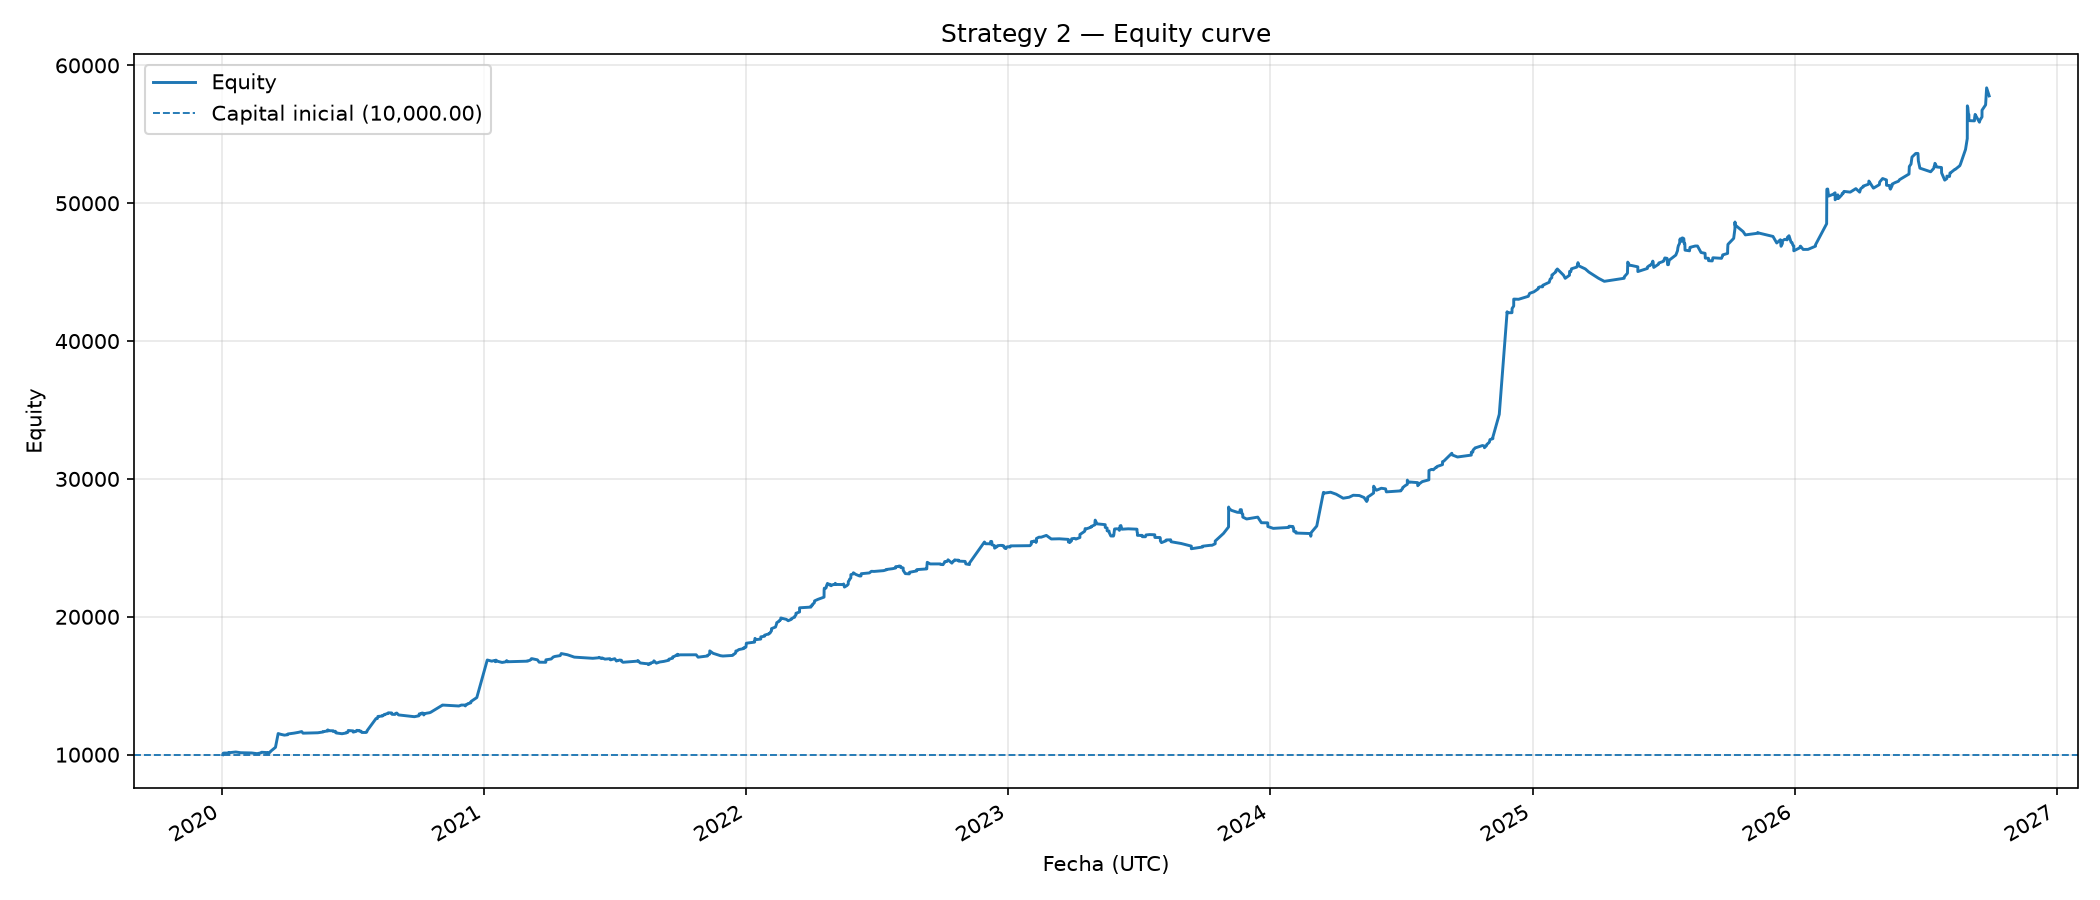
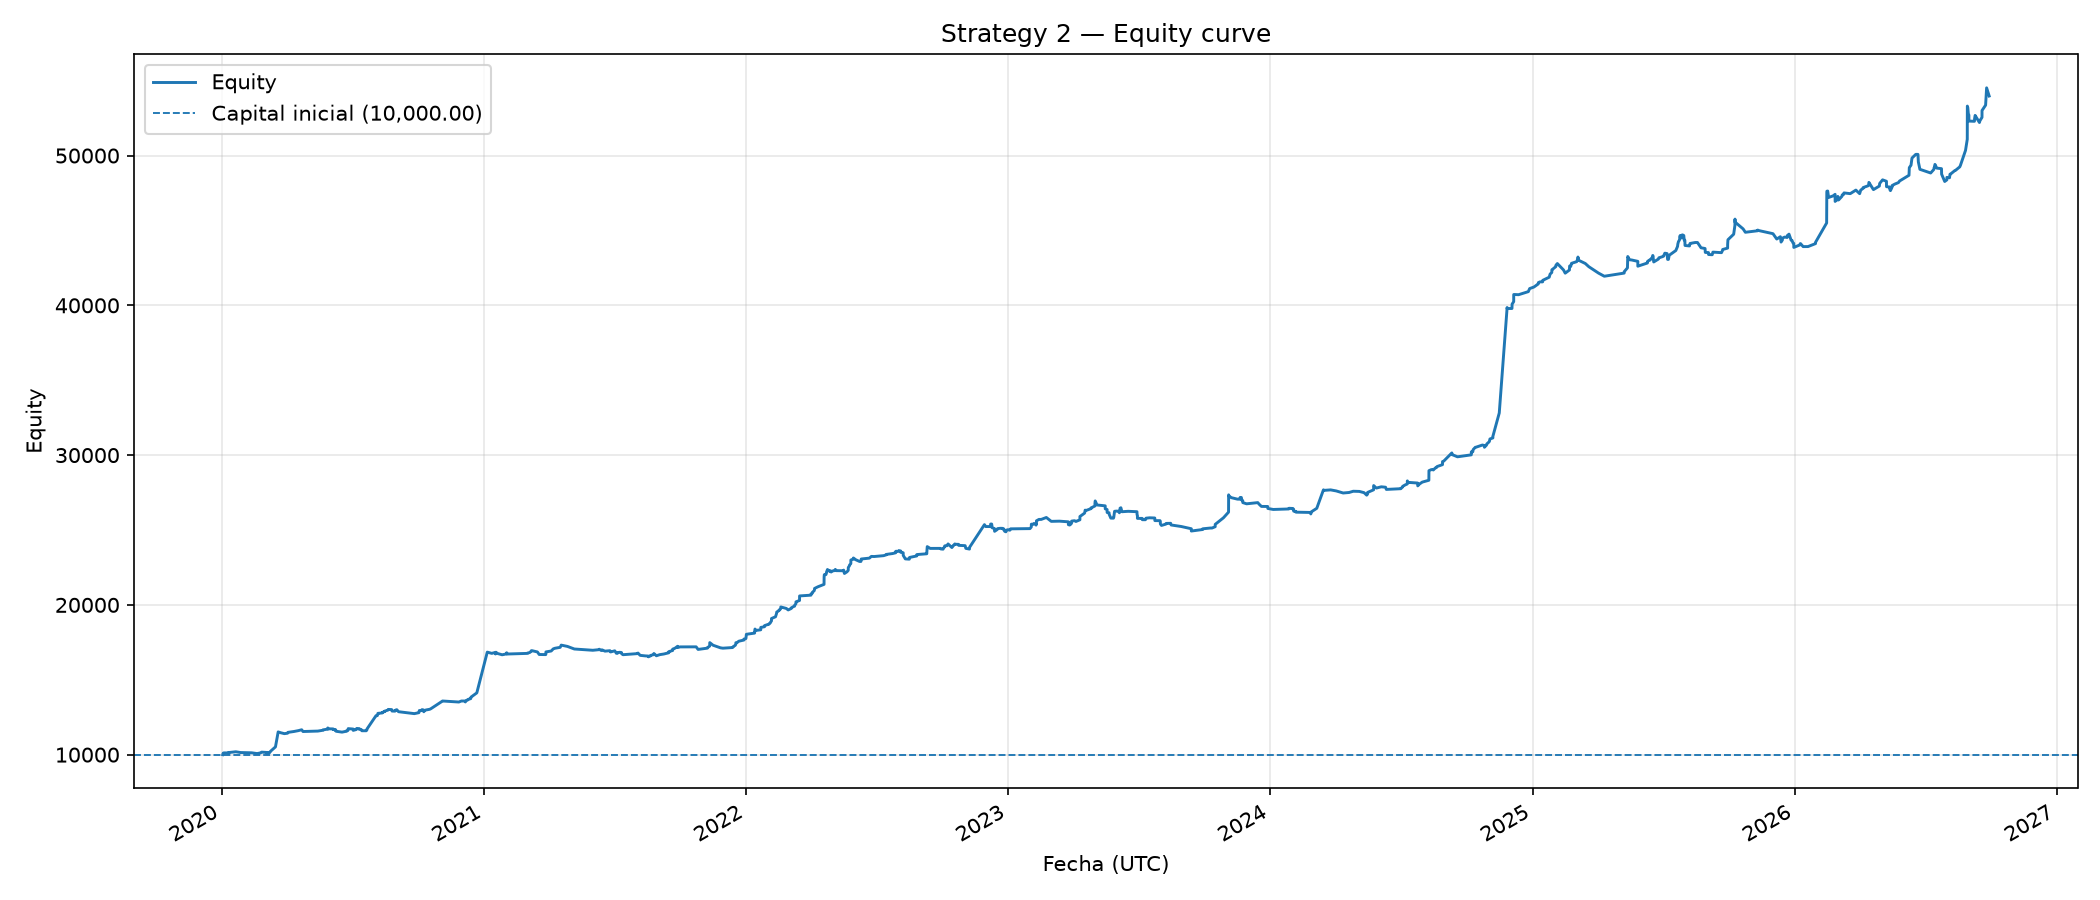
update

diff --git a/backend/services/backtest/bin/legacy/strategy/strategy.py b/backend/services/backtest/bin/legacy/strategy/strategy.py
@@ -22,16 +22,26 @@ el pivote anterior del mismo tipo en `rsi_divergence_lookback` velas.
 
 Archivo único con API reutilizable para backtesting y bots.
 
-Protecciones de riesgo (ver `Config`; las de régimen y tamaño adaptativo
-arrancan desactivadas, la de racha y la mensual vienen activas):
+Protecciones de riesgo (ver `Config`; el filtro de régimen y el escalado de
+riesgo por mes arrancan desactivados, la de racha, la mensual y el tamaño
+adaptativo vienen activos):
 
 * `streak_trend_only` (default True): tras una posición cerrada en pérdida,
   la siguiente entrada sólo se abre si la señal coincide con el sesgo de
   tendencia de `trend_timeframe` (vela superior ya cerrada, sin lookahead).
   Corta las rachas de -1R del whipsaw sin recortar los cruces en tendencia.
-* `monthly_loss_limit_pct` (default 4.5): si la equity cae más de X% por
+* `monthly_loss_limit_pct` (default 5.0): si la equity cae más de X% por
   debajo de la equity al inicio del mes calendario se cierra la posición (opcional)
   y no se abren nuevas hasta el siguiente mes (o `monthly_loss_limit_days` días).
+* `monthly_trend_gate_pct` (default 0 = off) + `monthly_gate_mode` ("trend" |
+  "all"): con el mes acumulando ≥ X% de pérdida, las nuevas entradas sólo se
+  abren a favor del sesgo de tendencia (o se bloquean todas, en modo "all").
+  Sobre el drawdown del mes, no sobre la racha de posiciones: en meses en
+  verde no toca nada, así que no recorta los cruces ganadores.
+* `monthly_risk_scaling` (default off) + `monthly_risk_scaling_min` (0.35):
+  el tamaño de cada nueva posición baja en proporción al drawdown del mes
+  (dd 0 → 1, dd `monthly_loss_limit_pct` → mínimo), para que las entradas de
+  la segunda mitad de un mes rojo no profundicen el mes.
 * `consecutive_loss_pause` (default 0) + `consecutive_loss_pause_bars` (96):
   espera de 48h (en 30min) antes de volver a entrar tras cada posición cerrada
   en pérdida. Con `streak_trend_only` activo no baja la racha y cuesta
@@ -39,13 +49,25 @@ arrancan desactivadas, la de racha y la mensual vienen activas):
 * `trend_filter` ("off" | "cross" | "slow") y `chop_filter`: filtro de régimen
   permanente; sólo se opera en la dirección de la tendencia de `trend_timeframe`
   / con el ADX de `chop_timeframe` por encima del mínimo.
-* `adaptive_risk_window`: escala `risk_pct` con el win rate de las últimas n
-  posiciones (penaliza rachas frías y reutiliza en cálidas).
+* `adaptive_risk_window` (default 20) + `adaptive_risk_k`: escala `risk_pct`
+  con el win rate de las últimas n posiciones: penaliza las rachas frías
+  (donde se concentran los meses rojos) y reutiliza el tamaño en las cálidas.
 
-Sobre BTCUSDT 2020-2026 (30min), con los defaults, frente a no tener
-protección alguna: racha máxima de pérdidas 7 -> 5 (lo mismo en train y en
-test), peor mes -4,75% -> -2,65%, PF 1,76 -> 2,07, expectancy 0,29R -> 0,40R,
-max drawdown -10,95% -> -10,68% y rendimiento total 327,6% -> 362,5%.
+Reducción de meses rojos (BTCUSDT 2020-2026, 30min, 82 meses). Partiendo del
+uso previo (`streak_trend_only`, `monthly_loss_limit_pct=5`, `adaptive_risk_window=0`):
+
+| variante                                   | meses en rojo | peor mes | suma meses rojos | retorno | max DD | PF   |
+|--------------------------------------------|---------------|----------|------------------|---------|--------|------|
+| sin tamaño adaptativo                      | 25 (30,5 %)   | -3,15 %  | -28,6 %          | 477,9 % | -8,70% | 2,43 |
+| `adaptive_risk_window=20` (**default**)    | 25 (30,5 %)   | -2,49 %  | -26,1 %          | 439,8 % | -7,96% | 2,49 |
+| `+ monthly_trend_gate_pct=0.3`             | 25 (30,5 %)   | -2,17 %  | -25,5 %          | 495,6 % | -8,23% | 2,52 |
+| `+ monthly_trend_gate_pct=0.4`             | 25 (30,5 %)   | -2,45 %  | -24,0 %          | 447,2 % | -7,46% | 2,58 |
+
+El mismo recorte se repite en train (2020-2023) y test (2024-2026) y con costes
+realistas (comisión 4 bps + slippage 2 bps), donde el tamaño adaptativo también
+mejora el drawdown (-10,1 % -> -8,2 %). El `monthly_trend_gate_pct` es más
+dependiente del régimen: se probó con costes y con `trend_filter="cross"`, donde
+no aporta, por eso arranca desactivado.
 
 Uso:
     python strategy2_refactored.py data.parquet --output-dir backtest_out
@@ -249,6 +271,12 @@ class Backtester:
         self.streak_in_loss = False
         self._position_pnl = 0.0
         self._recent_wins: list[bool] = []
+        # Estado mensual compartido por `run`, el gate de entradas y el
+        # escalado de riesgo: equity de referencia del mes y del cierre
+        # anterior (sin lookahead: se usa en la apertura de la vela siguiente).
+        self.month_start_equity = config.initial_capital
+        self._prev_close_equity = config.initial_capital
+        self.month_dd_pct = 0.0
 
     def _price(self, price: float, side: int) -> float:
         slip = self.cfg.slippage_bps / 10_000
@@ -272,7 +300,7 @@ class Backtester:
             return
         pct_sl = self.cfg.stop_loss_pct
         risk_unit = self._risk_per_unit(side, price, pct_sl) if pct_sl > 0 else 0.0
-        by_risk = self.cash * self.cfg.risk_pct * self._risk_multiplier() / risk_unit if risk_unit > 0 else np.inf
+        by_risk = self.cash * self.cfg.risk_pct * self._risk_multiplier() * self._monthly_risk_scale() / risk_unit if risk_unit > 0 else np.inf
         by_lev = self.cash * self.cfg.max_leverage / price
         qty_total = min(by_risk, by_lev)
         if not np.isfinite(qty_total) or qty_total <= 0:
@@ -368,6 +396,29 @@ class Backtester:
         win_rate = sum(wins) / len(wins)
         factor = 1 + cfg.adaptive_risk_k * (win_rate - 0.5)
         return float(min(max(factor, cfg.adaptive_risk_min), cfg.adaptive_risk_max))
+
+    def _monthly_risk_scale(self) -> float:
+        """Escala de tamaño según el drawdown acumulado del mes calendario.
+
+        Con ``monthly_risk_scaling`` desactivado devuelve 1. Si no, devuelve
+        ``1 - clamp(dd/budget, 0, 1) * (1 - monthly_risk_scaling_min)``: al
+        abrir el mes (dd = 0) se arriesga el tamaño habitual y conforme la
+        equity se acerca al límite ``monthly_loss_limit_pct`` el tamaño baja
+        hasta ``monthly_risk_scaling_min``. Corta las pérdidas que profundizan
+        un mes ya en rojo sin cerrar posiciones ni bloquear entradas.
+
+        Usa la equity del **cierre de la vela anterior** (``_prev_close_equity``),
+        la última conocida al ejecutar la apertura de la vela actual, así que
+        no hay lookahead.
+        """
+        cfg = self.cfg
+        if not cfg.monthly_risk_scaling or self.month_start_equity <= 0:
+            return 1.0
+        budget = cfg.monthly_loss_limit_pct / 100 if cfg.monthly_loss_limit_pct > 0 else 0.02
+        dd = max(0.0, 1.0 - self._prev_close_equity / self.month_start_equity)
+        used = min(dd / budget, 1.0)
+        floor = min(max(cfg.monthly_risk_scaling_min, 0.0), 1.0)
+        return float(1.0 - used * (1.0 - floor))
 
     def _close_streak(self) -> None:
         """Actualiza la racha de pérdidas y arma la pausa de entrada si procede.
@@ -701,6 +752,7 @@ class Backtester:
                 month_key = key
                 self.halt_until = None
                 month_start_equity = self._equity_value(self.c[i - 1]) if i else cfg.initial_capital
+                self.month_start_equity = month_start_equity
             # 1) Ejecutar add pendiente (decidido al cierre de vela anterior)
             if self.pending_add is not None:
                 exec_i, pct_rem = self.pending_add
@@ -732,11 +784,19 @@ class Backtester:
                     # Ejecutar resto completo en apertura de i+1
                     self.pending_add = (i + 1, 100.0)
 
+            # Equity mark-to-market del cierre de la vela y pérdida acumulada
+            # del mes: base del guard duro, del gate de entradas y de la
+            # referencia de riesgo del mes siguiente.
+            equity_now = self._equity_value(self.c[i])
+            if month_start_equity > 0:
+                self.month_dd_pct = max(0.0, (1.0 - equity_now / month_start_equity) * 100.0)
+            self._prev_close_equity = equity_now
+
             # Límite de pérdida mensual: si la equity cae por debajo del umbral
             # respecto al inicio del mes, se protege el mes completo (se cierra
             # la posición, si la hay, y no se abren nuevas hasta el próximo mes).
             if cfg.monthly_loss_limit_pct > 0 and self.halt_until is None:
-                if self._equity_value(self.c[i]) <= month_start_equity * (1 - cfg.monthly_loss_limit_pct / 100):
+                if equity_now <= month_start_equity * (1 - cfg.monthly_loss_limit_pct / 100):
                     if cfg.monthly_loss_limit_days > 0:
                         self.halt_until = self.times[i] + pd.Timedelta(days=cfg.monthly_loss_limit_days)
                         scope = f"{cfg.monthly_loss_limit_days} días"
@@ -756,6 +816,14 @@ class Backtester:
                 if target == -1 and not cfg.allow_short: target = 0
                 current = self.position.side if self.position else 0
                 if target and target != current and not self.entries_blocked():
+                    bias_val = int(self.signals["trend_bias"].iloc[i])
+                    # Gate mensual: con el mes en pérdida ≥ umbral se frenan las
+                    # entradas (todas o sólo las contra tendencia) para que un
+                    # mes rojo no se profundice con nuevas trampas de whipsaw.
+                    month_red = (cfg.monthly_trend_gate_pct > 0
+                                 and self.month_dd_pct >= cfg.monthly_trend_gate_pct)
+                    blocked_month = month_red and (cfg.monthly_gate_mode == "all"
+                                                   or bias_val != target)
                     if self.skip_signals_left > 0:
                         # Tras una pérdida se ignoran las primeras señales: en
                         # whipsaw la siguiente señal suele ser otra trampa.
@@ -763,8 +831,12 @@ class Backtester:
                         if self.verbose:
                             print(f"[SKIP] {self.times[i]} señal ignorada "
                                   f"({self.skip_signals_left} restantes)", flush=True)
-                    elif (cfg.streak_trend_only and self.streak_in_loss
-                          and int(self.signals["trend_bias"].iloc[i]) != target):
+                    elif blocked_month:
+                        if self.verbose:
+                            print(f"[GATE] {self.times[i]} mes {self.month_dd_pct:.2f}% en rojo: "
+                                  f"señal {target:+d} bloqueada (modo {cfg.monthly_gate_mode})",
+                                  flush=True)
+                    elif cfg.streak_trend_only and self.streak_in_loss and bias_val != target:
                         # Tras una pérdida sólo se entra con la tendencia mayor.
                         if self.verbose:
                             print(f"[RACHA] {self.times[i]} señal {target:+d} "
@@ -892,6 +964,18 @@ def parse_args():
                    help="Cierra la posición abierta al alcanzar el límite mensual.")
     p.add_argument("--monthly-loss-limit-days", type=int, default=d.monthly_loss_limit_days,
                    help="Días sin entradas tras el límite mensual (0 = hasta el próximo mes).")
+    p.add_argument("--monthly-trend-gate-pct", type=float, default=d.monthly_trend_gate_pct,
+                   help="%% de pérdida mensual acumulada a partir de la cual las entradas sólo se abren "
+                        "a favor de la tendencia (0 = desactivado).")
+    p.add_argument("--monthly-gate-mode", choices=("trend", "all"), default=d.monthly_gate_mode,
+                   help="'trend' exige alineación con la tendencia; 'all' bloquea toda entrada "
+                        "mientras el mes está en rojo.")
+    p.add_argument("--monthly-risk-scaling", action=argparse.BooleanOptionalAction,
+                   default=d.monthly_risk_scaling,
+                   help="Escala el tamaño de las posiciones con el drawdown del mes, hasta "
+                        "--monthly-risk-scaling-min al llegar al límite mensual.")
+    p.add_argument("--monthly-risk-scaling-min", type=float, default=d.monthly_risk_scaling_min,
+                   help="Tamaño mínimo (fracción de risk_pct) al fondo del drawdown mensual (default 0.35).")
     p.add_argument("--consecutive-loss-pause", type=int, default=d.consecutive_loss_pause,
                    help="Pausa las entradas tras N posiciones consecutivas en pérdida (0 = desactivado).")
     p.add_argument("--consecutive-loss-pause-bars", type=int, default=d.consecutive_loss_pause_bars,
@@ -950,6 +1034,10 @@ def config_from_args(a) -> Config:
         monthly_loss_limit_pct=a.monthly_loss_limit_pct,
         monthly_loss_limit_close=a.monthly_loss_limit_close,
         monthly_loss_limit_days=a.monthly_loss_limit_days,
+        monthly_trend_gate_pct=a.monthly_trend_gate_pct,
+        monthly_gate_mode=a.monthly_gate_mode,
+        monthly_risk_scaling=a.monthly_risk_scaling,
+        monthly_risk_scaling_min=a.monthly_risk_scaling_min,
         consecutive_loss_pause=a.consecutive_loss_pause,
         consecutive_loss_pause_bars=a.consecutive_loss_pause_bars,
         consecutive_loss_skip_signals=a.consecutive_loss_skip_signals,

diff --git a/backend/services/backtest/bin/legacy/strategy/config.py b/backend/services/backtest/bin/legacy/strategy/config.py
@@ -133,19 +133,43 @@ class Config:
     # equity al inicio del mes calendario, se dejan de abrir posiciones (y, con
     # monthly_loss_limit_close, se cierra la abierta) hasta el siguiente mes
     # o, si `monthly_loss_limit_days` > 0, durante ese número de días.
-    # Red de seguridad para el peor mes; con `streak_trend_only` activo apenas
-    # llega a dispararse (el peor mes cae a ~-2,7%). 0 = desactivado.
+    # Red de seguridad para el peor mes. Con los defaults apenas llega a
+    # dispararse (1 vez en 82 meses), por eso arranca holgado en 5.0 y el
+    # trabajo de recortar meses rojos lo hacen `monthly_trend_gate_pct` y
+    # `adaptive_risk_window`; bajarlo (p. ej. 2) mejora el peor mes pero
+    # recorta el acumulado de meses negativos. 0 = desactivado.
     monthly_loss_limit_pct: float = 5.0
     monthly_loss_limit_close: bool = True
     monthly_loss_limit_days: int = 0
 
+    # --- Gate y escalado de riesgo por mes ---------------------------------
+    # Palancas para recortar los meses en rojo sin apagar la estrategia:
+    # actúan sobre el drawdown *acumulado del mes calendario* (equity mark-to-
+    # market respecto a la equity del cierre del mes anterior), no sobre la
+    # racha de posiciones.
+    #
+    # `monthly_trend_gate_pct`: cuando el mes acumula una pérdida ≥ X %, las
+    # nuevas entradas sólo se abren a favor del sesgo de tendencia de
+    # `trend_timeframe` (mismo requisito que `streak_trend_only`, pero activado
+    # por el mes en rojo). En los meses en verde no toca nada, así que no
+    # recorta los cruces ganadores. 0 = desactivado.
+    monthly_trend_gate_pct: float = 0.0
+    # `monthly_gate_mode`: "trend" exige sólo alineación con la tendencia y
+    # "all" bloquea cualquier entrada mientras el mes esté en rojo.
+    monthly_gate_mode: str = "trend"
+    # `monthly_risk_scaling`: escala `risk_pct` con el drawdown del mes:
+    # dd = 0 -> 1, dd >= `monthly_loss_limit_pct` -> `monthly_risk_scaling_min`
+    # (y ahí ya corta el guard duro). Reduce el tamaño de las posiciones que se
+    # abren en la segunda mitad de un mes rojo, donde salen las pérdidas que
+    # profundizan el mes. Con el límite mensual a 0 se usa un 2 % de referencia.
+    monthly_risk_scaling: bool = False
+    monthly_risk_scaling_min: float = 0.35
+
     # --- Pausa tras rachas de pérdidas -------------------------------------
     # Tras `consecutive_loss_pause` posiciones consecutivas en pérdida no se
     # abren nuevas durante `consecutive_loss_pause_bars` velas (96 velas de
-    # 30min = 48h). Evita re-entrar en pleno whipsaw. Con `streak_trend_only`
-    # activo la pausa no baja más la racha máxima (queda en 5) y cuesta entre
-    # 60 y 110 puntos de rendimiento, así que arranca desactivada (0); se
-    # conserva como palanca opcional para mercados muy violentos.
+    # 30min = 48h). Evita re-entrar en pleno whipsaw. Medido: no baja la racha
+    # máxima y cuesta rendimiento, así que arranca desactivada (0).
     consecutive_loss_pause: int = 0
     consecutive_loss_pause_bars: int = 96
 
@@ -170,8 +194,13 @@ class Config:
     # --- Tamaño de posición adaptativo -------------------------------------
     # `risk_pct` se multiplica por `clamp(1 + k * (win_rate últimas n posiciones
     # - 0.5), min, max)`: en rachas de pérdidas se arriesga menos y en rachas
-    # ganadoras (mercado en tendencia) se arriesga más. 0 = desactivado.
-    adaptive_risk_window: int = 0
+    # ganadoras (mercado en tendencia) se arriesga más. Los meses rojos suelen
+    # ser rachas frías, así que recorta el riesgo justo cuando salen las
+    # pérdidas: con `adaptive_risk_window=20` y `k=2` el peor mes pasa de
+    # -3,15% a -2,49%, el acumulado de meses negativos de -28,6% a -26,1% y el
+    # PF de 2,43 a 2,50, a cambio de ~38 puntos de rendimiento total. 0 =
+    # desactivado (tamaño fijo).
+    adaptive_risk_window: int = 20
     adaptive_risk_k: float = 2.0
     adaptive_risk_min: float = 0.5
     adaptive_risk_max: float = 1.5
@@ -278,6 +307,15 @@ class Config:
             raise ValueError("monthly_loss_limit_pct no puede ser negativo.")
         if self.monthly_loss_limit_days < 0:
             raise ValueError("monthly_loss_limit_days no puede ser negativo.")
+        if self.monthly_trend_gate_pct < 0:
+            raise ValueError("monthly_trend_gate_pct no puede ser negativo.")
+        if self.monthly_trend_gate_pct > 0 and self.trend_filter == "off" and not self.streak_trend_only:
+            raise ValueError("monthly_trend_gate_pct requiere trend_filter != 'off' o streak_trend_only "
+                             "(sin sesgo de tendencia no hay nada que exigir a la entrada).")
+        if self.monthly_gate_mode not in ("trend", "all"):
+            raise ValueError("monthly_gate_mode debe ser 'trend' o 'all'.")
+        if not 0.0 <= self.monthly_risk_scaling_min <= 1.0:
+            raise ValueError("monthly_risk_scaling_min debe estar en [0, 1].")
         if self.consecutive_loss_pause < 0 or self.consecutive_loss_pause_bars < 1:
             raise ValueError("consecutive_loss_pause debe ser >= 0 y ..._bars >= 1.")
         if self.consecutive_loss_skip_signals < 0:
